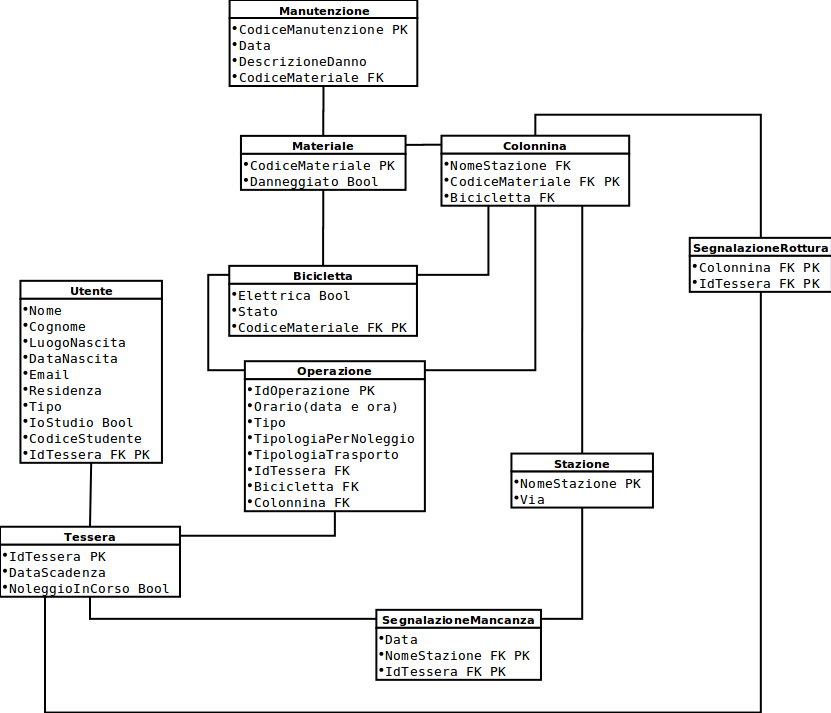
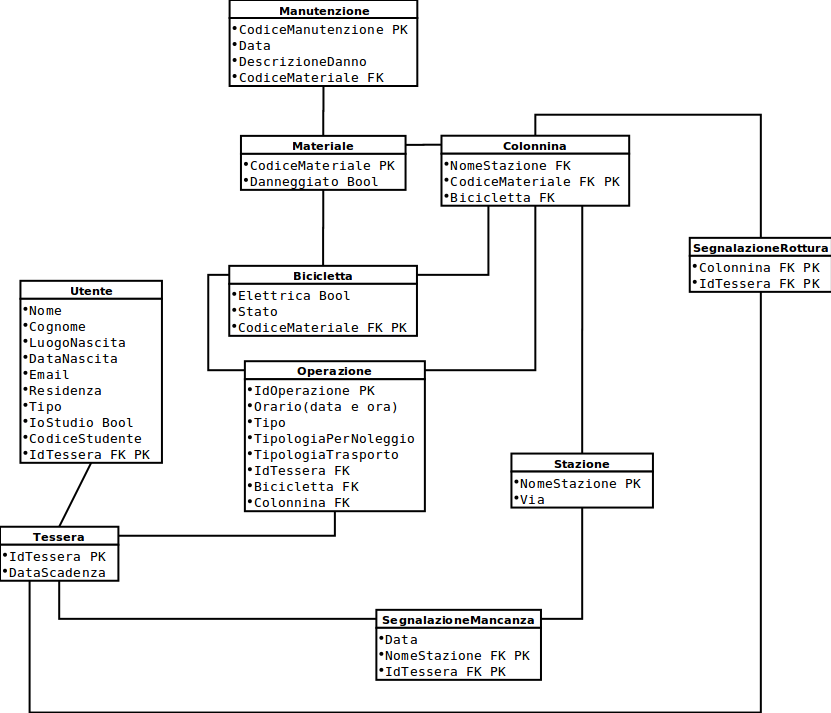
tolto noleggio in corso

Changed region(s): [[0.0, 0.7097, 0.2407, 1.0], [0.0903, 0.648, 0.1203, 0.7097]]

diff --git a/Relazione/Relazione.tex b/Relazione/Relazione.tex
@@ -146,17 +146,11 @@ Questo è il modello concettuale risultante.
 Per la realizzazione di un modello logico a partire da uno concettuale si sevono controllare varie cose:\newline
 Per prima cosa si controllano le chiavi di ogni entità, e sono presenti tutte.\newline
 Osservando Utente e Tessera si nota che hanno la stessa chiave, quindi le due entità potrebbero essere unite in un'unica, ma si decide di non farlo in quanto le informazioni dell'utente non vengono quasi mai richiamate (solo se si deve mostrare il profilo) e quindi avere una grande entità coinvolta in tutte le relazioni di tessera rallenterebbe inutilmente il sistema,molto meglio eseguire un join quelle rare volte che servono le informazioni personali dell'utente.\newline
-Osservando poi una comune richiesta fatta al database, cioè se una tessera ha un noleggio in corso, si decide che è meglio aggiungere un attributo booleano a tessera che eseguire una query ogniqualvolta si vuole sapere se l'utente ha un noleggio in corso.
-\begin{figure}[H]
- \centering
-  \includegraphics[width=1\textwidth]{Immagini-Grafici/Logico01.png}
-\caption{Aggiunta di un attributo a Tessera}
-\end{figure}
 Osservando ora Operazione, ci si accorge come i sottoinsiemi prelievo e deposito siano molto simili, quindi si decide di unirli in un unico sottoinsieme, e distinguerli grazie ad un attributo.\newline
 Si osserva come Trasporto e Noleggio siano molto simili, ma al momento si preferisce aspettare all'implementazione su sql per decidere come comportarsi.
 \begin{figure}[H]
  \centering
-  \includegraphics[width=1\textwidth]{Immagini-Grafici/Logico02.png}
+  \includegraphics[width=1\textwidth]{Immagini-Grafici/Logico01.png}
 \caption{Modifica a Operazione}
 \end{figure}
 Lo schema Logico risultate.
@@ -186,7 +180,6 @@ Tessera
 CREATE TABLE Tessera(
 	IdTessera INTEGER UNSIGNED AUTO_INCREMENT,
 	DataScadenza DATE NOT NULL,
-	NoleggioInCorso BOOLEAN DEFAULT 0 NOT NULL,
 	PRIMARY KEY(IdTessera)
 )ENGINE=INNODB;
 \end{lstlisting}
@@ -388,34 +381,41 @@ CREATE TRIGGER insert_operazione
 BEFORE INSERT ON Operazione
 FOR EACH ROW BEGIN
 DECLARE nol BOOLEAN;
+DECLARE tes INTEGER UNSIGNED;
 DECLARE dat DATETIME;
+SET nol = FALSE;
 SELECT NOW() INTO dat;
 SET NEW.Orario = dat;
 IF NEW.Motivazione = 'Prelievo' OR NEW.Motivazione = 'Deposito' THEN
 IF NEW.IdTessera IS NULL THEN SET NEW.IdOperazione = NULL;
 END IF;
-SELECT NoleggioInCorso INTO nol FROM Tessera
-WHERE Tessera.IdTessera = NEW.IdTessera;
-IF NEW.Motivazione = 'Prelievo' THEN IF nol = TRUE THEN
-SET NEW.IdOperazione = NULL;
+SELECT IdTessera INTO tes FROM Tessera JOIN Operazione
+ON Tessera.IdTessera = Operazione.IdTessera
+WHERE Tessera.IdTessera = NEW.IdTessera AND Operazione.Motivazone = 'Prelievo'
+AND Operazione.IdOperazione <> NEW.IdOperazione
+ORDER BY Operazione.Orario DESC LIMIT 1;
+IF tes IS NOT NULL THEN SET nol = TRUE; END IF;
+IF NEW.Motivazione = 'Prelievo' THEN
+IF nol = TRUE THEN SET NEW.IdOperazione = NULL;
 ELSE UPDATE Tessera SET NoleggioInCorso = TRUE
 WHERE Tessera.IdTessera = NEW.IdTessera;
 END IF; END IF;
-IF NEW.Motivazione = 'Deposito' THEN IF nol = FALSE THEN
-SET NEW.IdOperazione = NULL;
+IF NEW.Motivazione = 'Deposito' THEN
+IF nol = FALSE THEN SET NEW.IdOperazione = NULL;
 ELSE UPDATE Tessera SET NoleggioInCorso = FALSE
 WHERE Tessera.IdTessera = NEW.IdTessera;
-END IF; END IF;
-ELSE
+END IF; END IF; ELSE
 IF NEW.Motivazione = 'Aggiunta' THEN
-IF NEW.IdTessera IS NOT NULL  THEN SET NEW.IdTessera = NULL;
+IF NEW.IdTessera IS NOT NULL THEN
+SET NEW.IdTessera = NULL;
 END IF;
 UPDATE Bicicletta SET Stato = 'InServizio'
 WHERE Bicicletta.CodiceMateriale = NEW.Bicicletta;
 END IF;
 IF NEW.Motivazione = 'Rimozione' THEN
-IF NEW.IdTessera IS NOT NULL  THEN
-SET NEW.IdTessera = NULL; END IF;
+IF NEW.IdTessera IS NOT NULL THEN
+SET NEW.IdTessera = NULL;
+END IF;
 UPDATE Bicicletta SET Stato = 'InMagazzino'
 WHERE Bicicletta.CodiceMateriale = NEW.Bicicletta;
 END IF; END IF;
